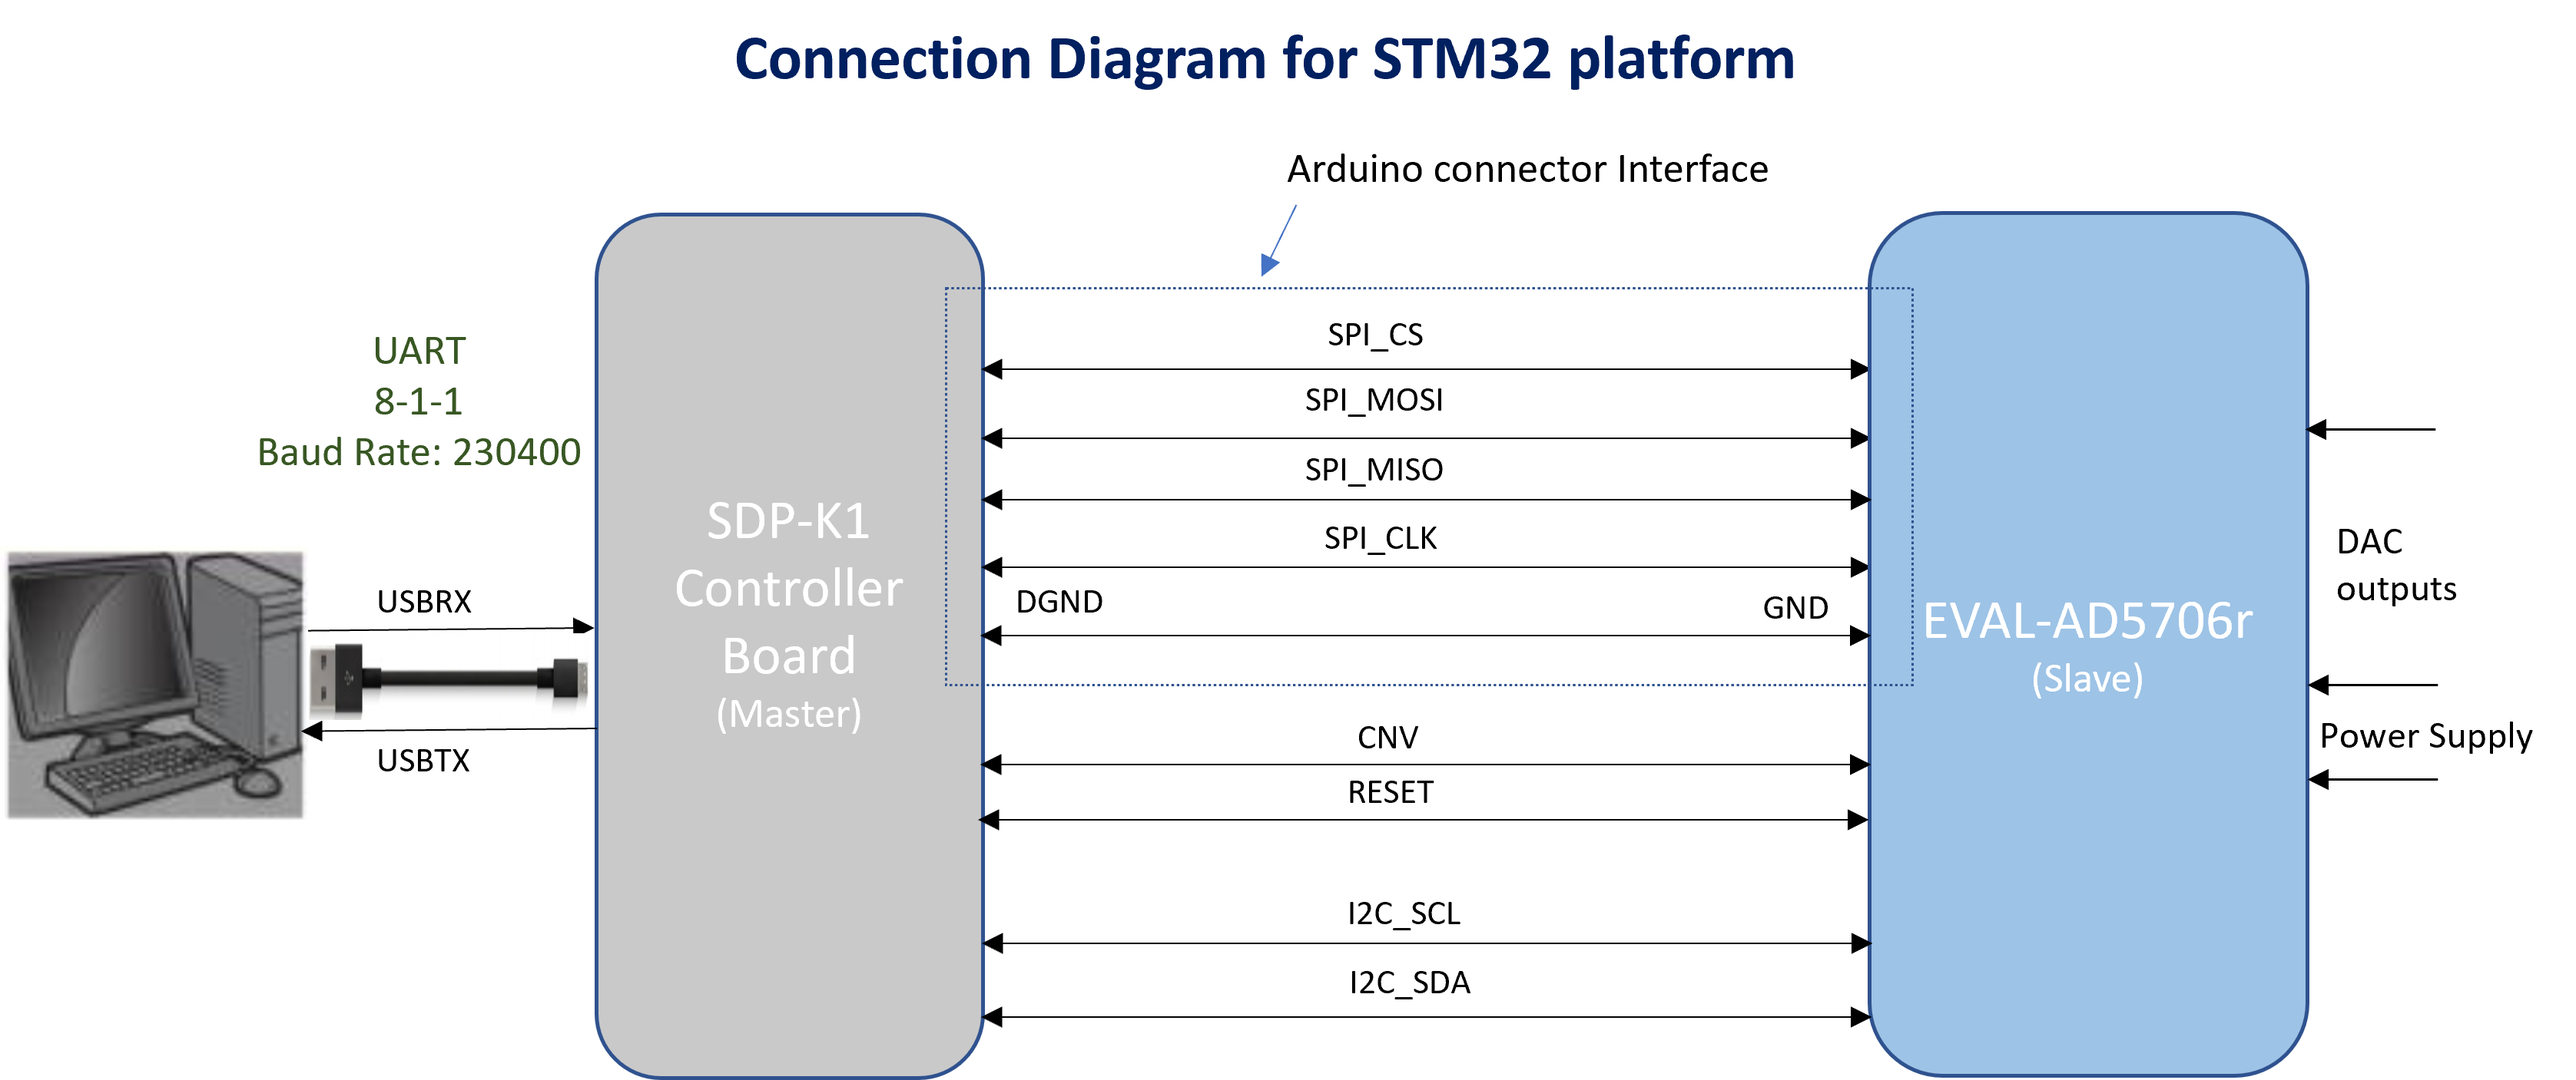
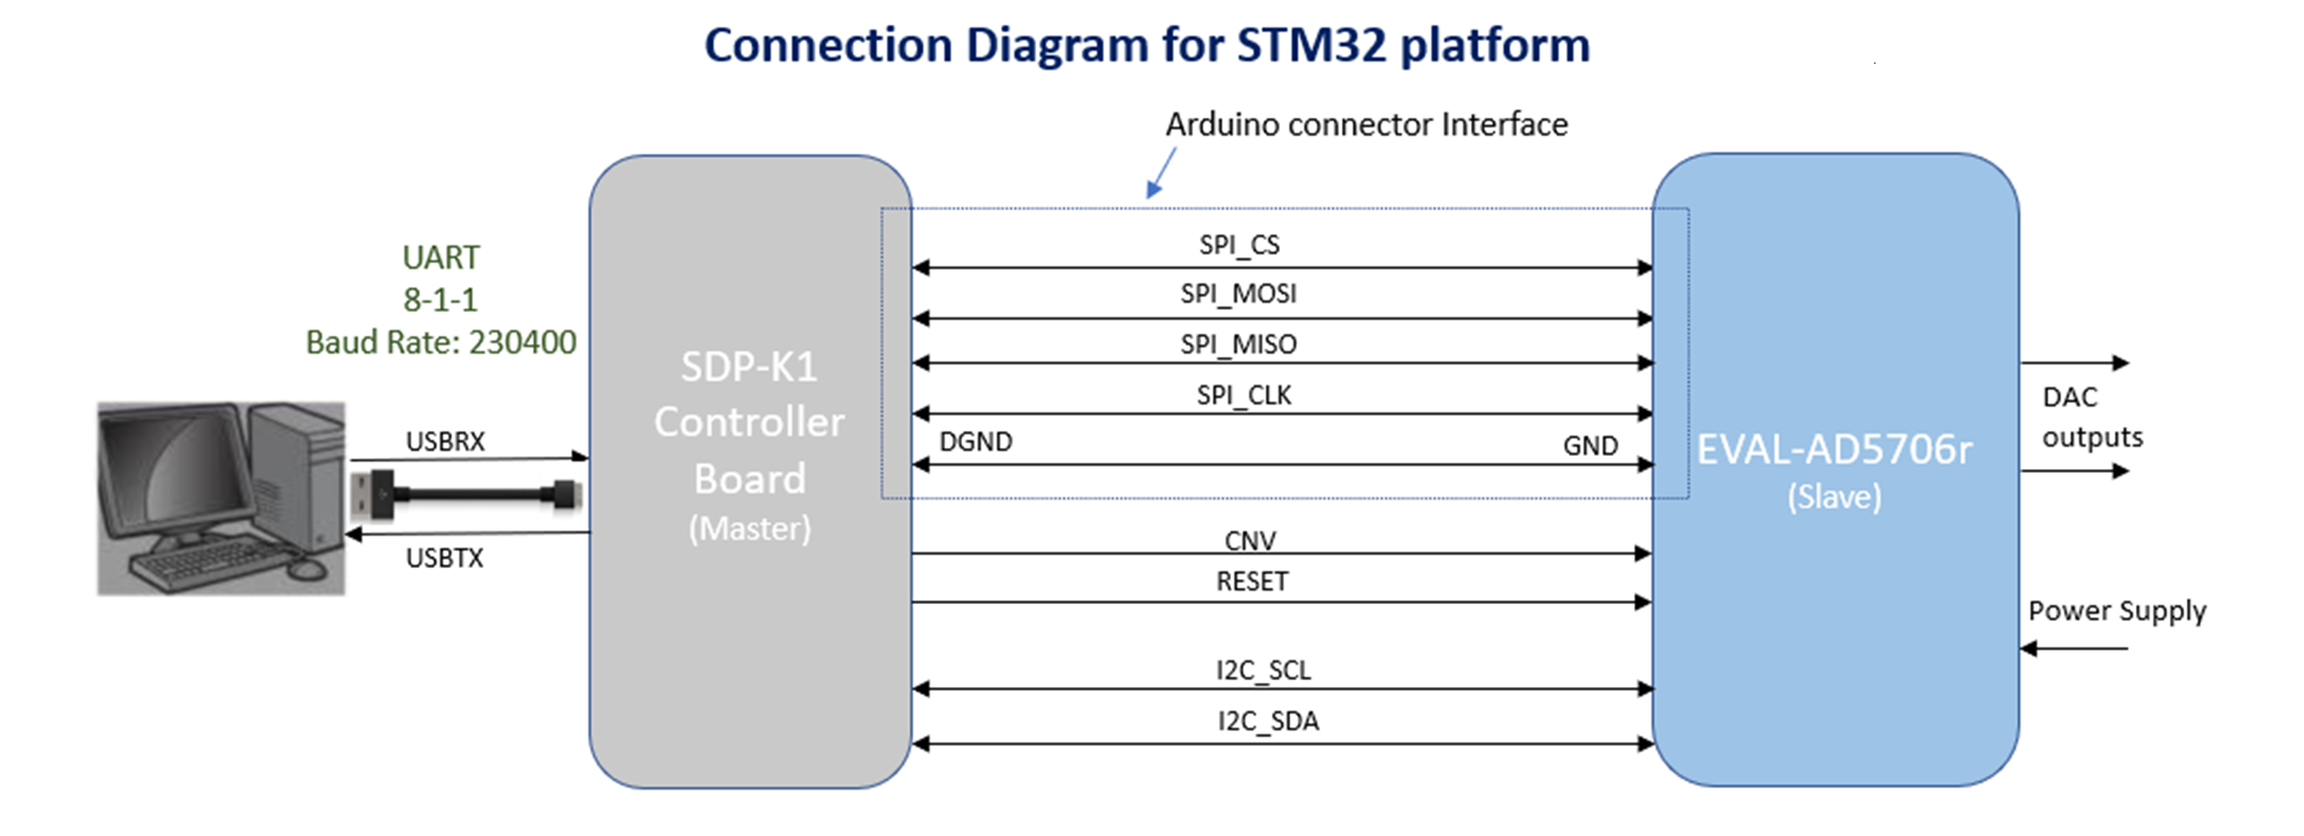
doc: ad5706r: Fix link and image.
Fix evalboard link url not being displayed.
Fix image not being displayed.
Update image making CNV, RESET as O/P IOs.

Changed region(s): [[0.0, 0.1249, 0.992, 1.0], [0.279, 0.0312, 0.713, 0.0937]]

diff --git a/doc/sphinx/source/projects/ad5706r_iio/ad5706r_iio.rst b/doc/sphinx/source/projects/ad5706r_iio/ad5706r_iio.rst
@@ -11,7 +11,7 @@ Supported Hardware
 
 **Supported Evaluation Boards:**
 
-* `EVAL-AD5706r <https://www.analog.com/en/resources/evaluation-hardware-and-software/evaluation-boards-kits/eval-ad5706r.html#eb-overview>`
+* `EVAL-AD5706r <https://www.analog.com/en/resources/evaluation-hardware-and-software/evaluation-boards-kits/eval-ad5706r.html#eb-overview>`_
 
 **Supported Carrier Boards:**
 
@@ -52,7 +52,7 @@ Required: SDP-K1 (or alternative STM32 enabled controller board), EVAL-AD5706r b
 Connect the EVAL-AD5706r board to SDP-K1 board (or any other STM32 enabled controller board). 
 Connect SDP-K1 board to the PC using the USB cable.
 
-   .. image:: /source/projects/ad5706_iio/ad5706_connection_diagram.png
+   .. image:: /source/projects/ad5706r_iio/ad5706r_connection_diagram.png
       :width: 700
 
 ===============
